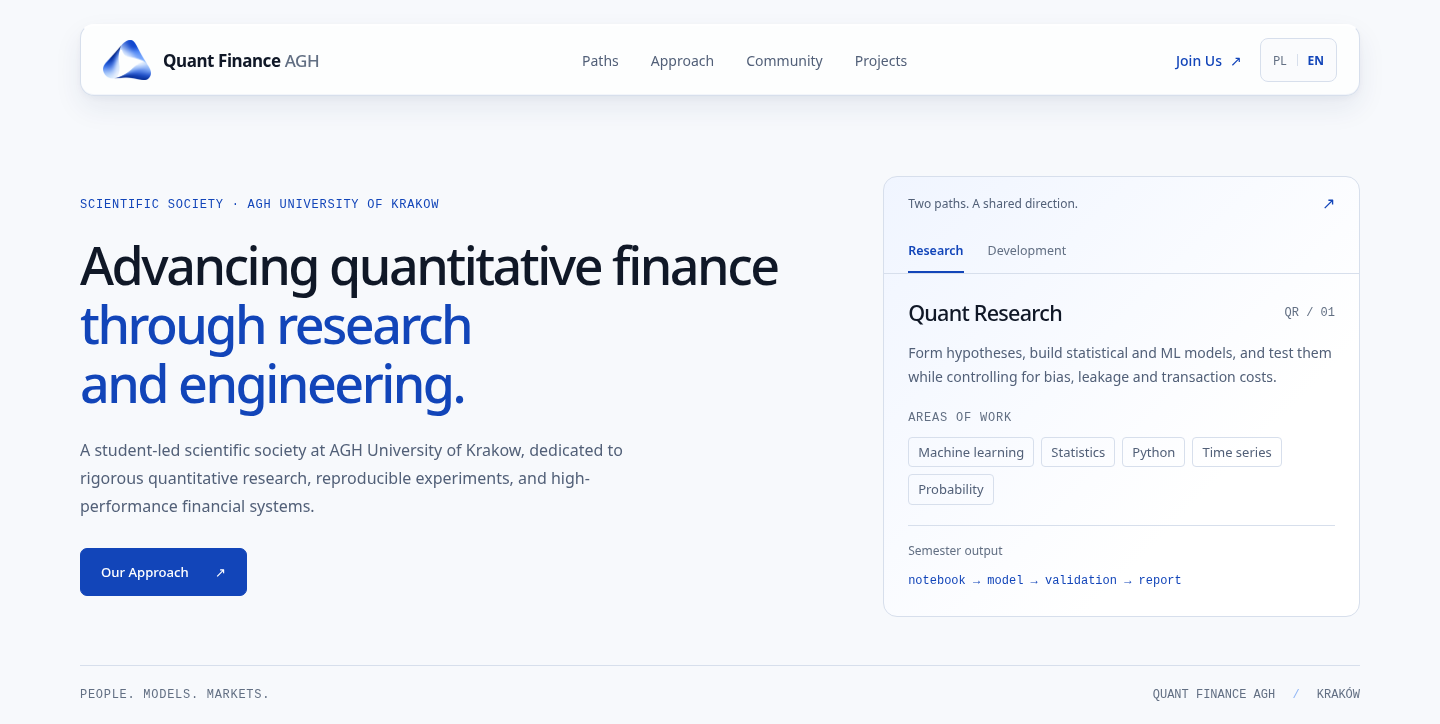
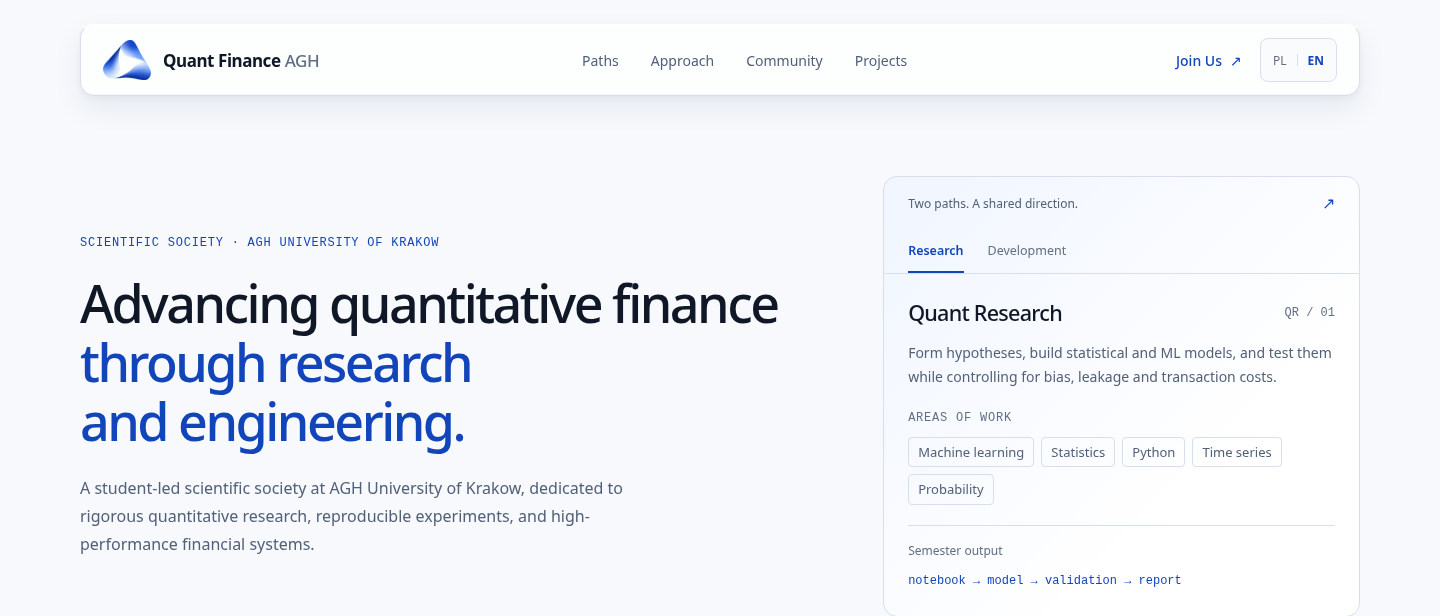
Simplify homepage hero to introduction and interactive tracks

diff --git a/src/styles.css b/src/styles.css
@@ -117,14 +117,8 @@ a { color: inherit; }
 }
 .hero h1 em { color: var(--accent); font-style: normal; }
 .hero-lead { max-width: 580px; margin: 0; color: var(--muted); font-size: 1rem; line-height: 1.75; }
-.hero-actions { display: flex; align-items: center; flex-wrap: wrap; gap: 24px; margin-top: 28px; }
 .primary-button { min-height: 48px; display: inline-flex; align-items: center; justify-content: space-between; gap: 26px; padding: 12px 20px; border: 1px solid var(--accent); border-radius: 7px; background: var(--accent); color: white; cursor: pointer; text-decoration: none; font-size: .82rem; font-weight: 550; }
 .primary-button:hover { background: #0f3794; border-color: #0f3794; }
-.secondary-link { min-height: 48px; display: inline-flex; align-items: center; gap: 14px; color: var(--ink); font-size: .82rem; text-decoration: none; }
-.secondary-link:hover { color: var(--accent); }
-.hero-caption { grid-column: 1 / -1; display: flex; justify-content: space-between; gap: 24px; margin-top: 48px; padding-block: 20px; border-top: 1px solid var(--line); color: var(--quiet); font: .75rem/1.6 var(--mono); letter-spacing: .06em; text-transform: uppercase; }
-.hero-caption > span:last-child { letter-spacing: 0; }
-.hero-caption span span { padding-inline: 10px; color: var(--blue-soft); }
 .path-console { overflow: hidden; border: 1px solid var(--line); border-radius: var(--radius); background: linear-gradient(135deg, #f0f5ff, #fff 70%); }
 .path-console__header { min-height: 52px; display: flex; align-items: center; justify-content: space-between; gap: 16px; padding: 14px 24px; color: var(--muted); font-size: .75rem; }
 .path-console__header > span:last-child { color: var(--accent); font-size: 1rem; }
@@ -246,7 +240,6 @@ a { color: inherit; }
   .hero-copy { padding: 0; }
   .hero h1 { max-width: 650px; font-size: clamp(2.5rem, 6.6vw, 3.4rem); }
   .hero-console { max-width: 600px; }
-  .hero-caption { margin-top: 16px; }
   .path-panel__title { flex-wrap: nowrap; }
   .path-description, .skill-list { min-height: 0; }
   .disciplines, .community__inner, .recruitment__inner, .community-pillars { grid-template-columns: 1fr; }
@@ -269,8 +262,6 @@ a { color: inherit; }
   .hero .eyebrow { max-width: 100%; font-size: .75rem; }
   .hero h1 { margin-block: 22px 24px; font-size: 2.5rem; line-height: 1.12; letter-spacing: -.045em; }
   .hero-lead { font-size: .92rem; line-height: 1.8; }
-  .hero-actions { margin-top: 26px; gap: 12px; align-items: flex-start; flex-direction: column; }
-  .hero-caption { gap: 8px; flex-direction: column; margin-top: 4px; padding-block: 20px; font-size: .75rem; }
   .path-panel__title h2 { font-size: 1.25rem; }
   .path-panel { padding: 24px 20px; }
   .path-output strong { font-size: .75rem; }

diff --git a/src/content.ts b/src/content.ts
@@ -40,10 +40,8 @@ export type SiteCopy = {
     title: string;
     accent: string;
     lead: string;
-    primaryAction: string;
     consoleLabel: string;
     skillsLabel: string;
-    signature: string;
     skipLink: string;
     targetPath: string;
     semesterOutput: string;
@@ -117,10 +115,8 @@ export const siteCopy: Record<Language, SiteCopy> = {
       title: "Rozwijamy finanse ilościowe",
       accent: "przez badania i inżynierię.",
       lead: "Studenckie koło naukowe przy AGH w Krakowie. Łączymy rzetelne badania ilościowe, odtwarzalne eksperymenty i budowę wydajnych systemów finansowych.",
-      primaryAction: "Nasze podejście",
       consoleLabel: "Dwie ścieżki. Wspólny kierunek.",
       skillsLabel: "Obszary pracy",
-      signature: "Ludzie. Modele. Rynki.",
       skipLink: "Przejdź do treści",
       targetPath: "Wybrana ścieżka",
       semesterOutput: "Efekt semestru",
@@ -242,10 +238,8 @@ export const siteCopy: Record<Language, SiteCopy> = {
       title: "Advancing quantitative finance",
       accent: "through research and engineering.",
       lead: "A student-led scientific society at AGH University of Krakow, dedicated to rigorous quantitative research, reproducible experiments, and high-performance financial systems.",
-      primaryAction: "Our Approach",
       consoleLabel: "Two paths. A shared direction.",
       skillsLabel: "Areas of work",
-      signature: "People. Models. Markets.",
       skipLink: "Skip to content",
       targetPath: "Selected path",
       semesterOutput: "Semester output",

diff --git a/src/components/Hero.tsx b/src/components/Hero.tsx
@@ -10,14 +10,10 @@ export function Hero({ copy }: HeroProps) {
         <p className="eyebrow">{copy.hero.eyebrow}</p>
         <h1 id="hero-title"><span>{copy.hero.title}</span> <em>{copy.hero.accent}</em></h1>
         <p className="hero-lead">{copy.hero.lead}</p>
-        <div className="hero-actions">
-          <a className="primary-button pressable" href="#approach">{copy.hero.primaryAction}<span aria-hidden="true">↗</span></a>
-        </div>
       </div>
       <div className="hero-console" data-reveal>
         <PathConsole paths={copy.paths} copy={copy.hero} />
       </div>
-      <div className="hero-caption"><span>{copy.hero.signature}</span><span>Quant Finance AGH <span aria-hidden="true">/</span> Kraków</span></div>
     </section>
   );
 }

diff --git a/docs/projects-and-membership-review.md b/docs/projects-and-membership-review.md
@@ -12,7 +12,7 @@ Branch: `feat/projects-and-membership`, created from `main` at `1e6970f`. This i
 - Page changes use native links. No routing dependency was added; the Projects module loads separately. Explicit PL/EN preferences survive native page navigation and reloads. Fresh visitors start in English.
 - A small initial-fragment effect scrolls/focuses homepage sections after React mounts, so cross-page section links work with keyboard navigation. Existing same-page links retain their behavior.
 
-The hero retains its academic copy and primary Our Approach / Nasze podejście CTA; the redundant How to Join / Jak dołączyć hero link has been removed. The existing paragraph-to-button spacing is retained, and the mobile action area contracts naturally to a single button. Research & Development, Our Approach, Community, footer copy and the existing recruitment heading/description/supporting note remain unchanged. No proposal descriptions were inserted into the homepage. There are no new decorative cards, charts or glass surfaces.
+The hero contains only the introductory label, academic headline, supporting paragraph and interactive Quant Research / Quant Development panel. Both hero CTAs and the caption strip have been removed, with their unused markup, translation fields and styles. The existing grid centers the introduction against the panel on desktop; the mobile paragraph-to-panel gap remains 40px, with no empty action container. Research & Development, Our Approach, Community, footer copy and the existing recruitment heading/description/supporting note remain unchanged. No proposal descriptions were inserted into the homepage. There are no new decorative cards, charts or glass surfaces.
 
 ## Routing and hosting
 
@@ -69,11 +69,11 @@ Projects captures use 375 × 812 or 768/1440/1920 × 1000 browser viewports; scr
 
 Earlier homepage comparison captures, before the secondary hero CTA removal: [EN desktop](screenshots/projects-and-membership/en-home-1440.png), [EN mobile](screenshots/projects-and-membership/en-home-375.png), [PL desktop](screenshots/projects-and-membership/pl-home-1440.png), [PL mobile](screenshots/projects-and-membership/pl-home-375.png).
 
-### Single-CTA hero refinement
+### Hero without CTAs
 
-The hero has one primary action. The distinct navbar Join Us action and Get Involved's existing How to Join interaction remain intact, including the closed recruitment preview and its keyboard behavior. No navigation, branding, recruitment functionality or other section changed.
+The hero introduces the society and its two interactive tracks without action links or a caption strip. The distinct navbar Join Us action and Get Involved's existing How to Join interaction remain intact, including the closed recruitment preview and its keyboard behavior. The shared primary-button styles remain in use by recruitment. No navigation, official branding, recruitment functionality or other section changed.
 
-Lint and build pass. Chromium verification at 1440px and 375px in English and Polish covers the single hero link and its destination, retained navigation hierarchy, mobile menu Escape/focus restoration, recruitment dialog opening/Tab/Escape/focus restoration, paragraph-to-button spacing and absence of horizontal overflow or browser errors. The existing spacing needs no CSS adjustment.
+Lint, build and all eight existing tests pass. Chromium verification at 1440px and 375px in English and Polish covers absence of hero links/unused containers, Research/Development click and Arrow/Home/End keyboard switching, retained navigation hierarchy, mobile menu Escape/focus restoration, recruitment dialog opening/Tab/Escape/focus restoration, Projects routing/language persistence and absence of horizontal overflow or browser errors. Removing the action and caption rows contracts the hero naturally; existing responsive grid spacing is preserved.
 
 | Language | Desktop · 1440px | Mobile · 375px |
 | --- | --- | --- |
